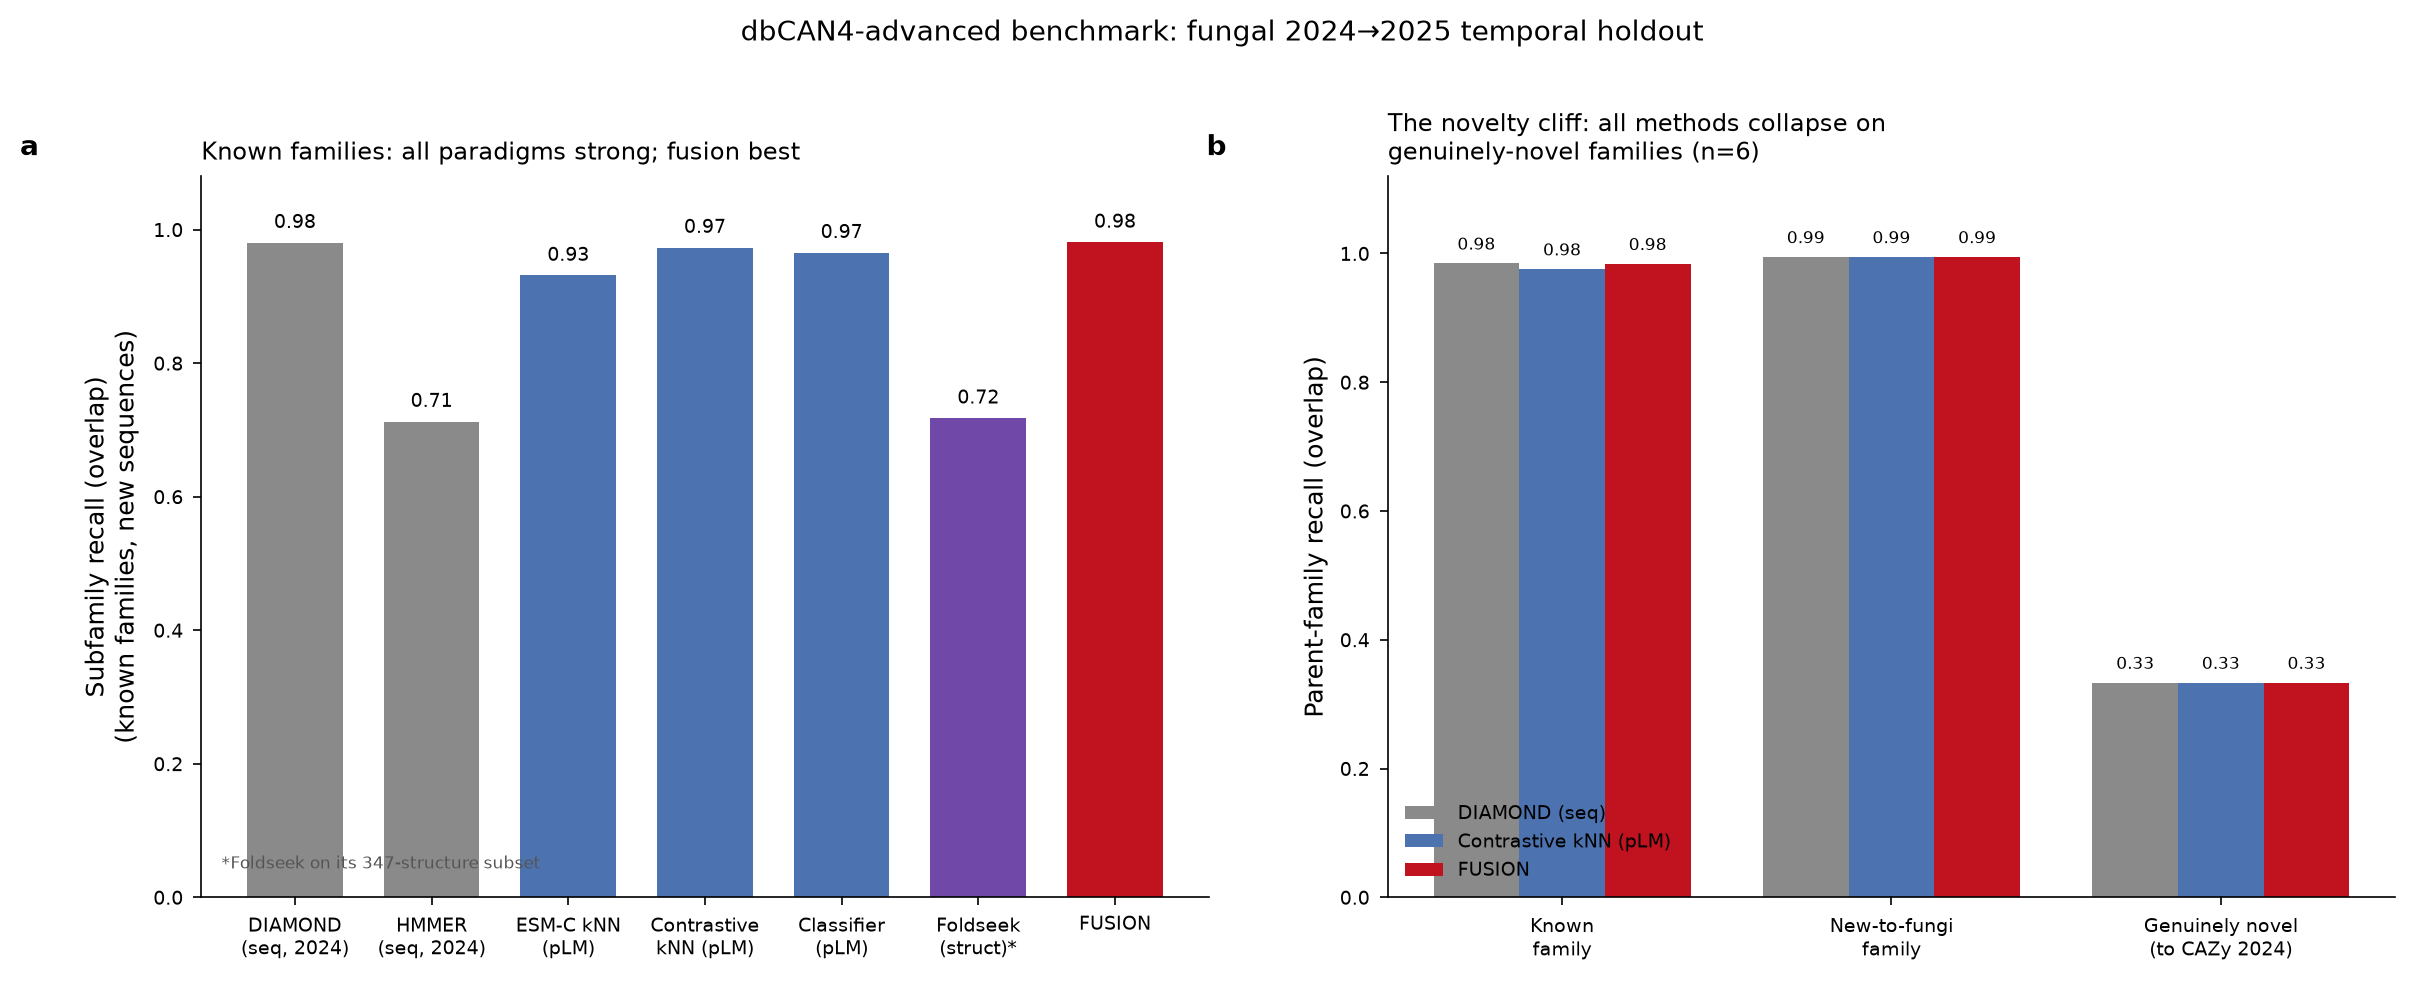
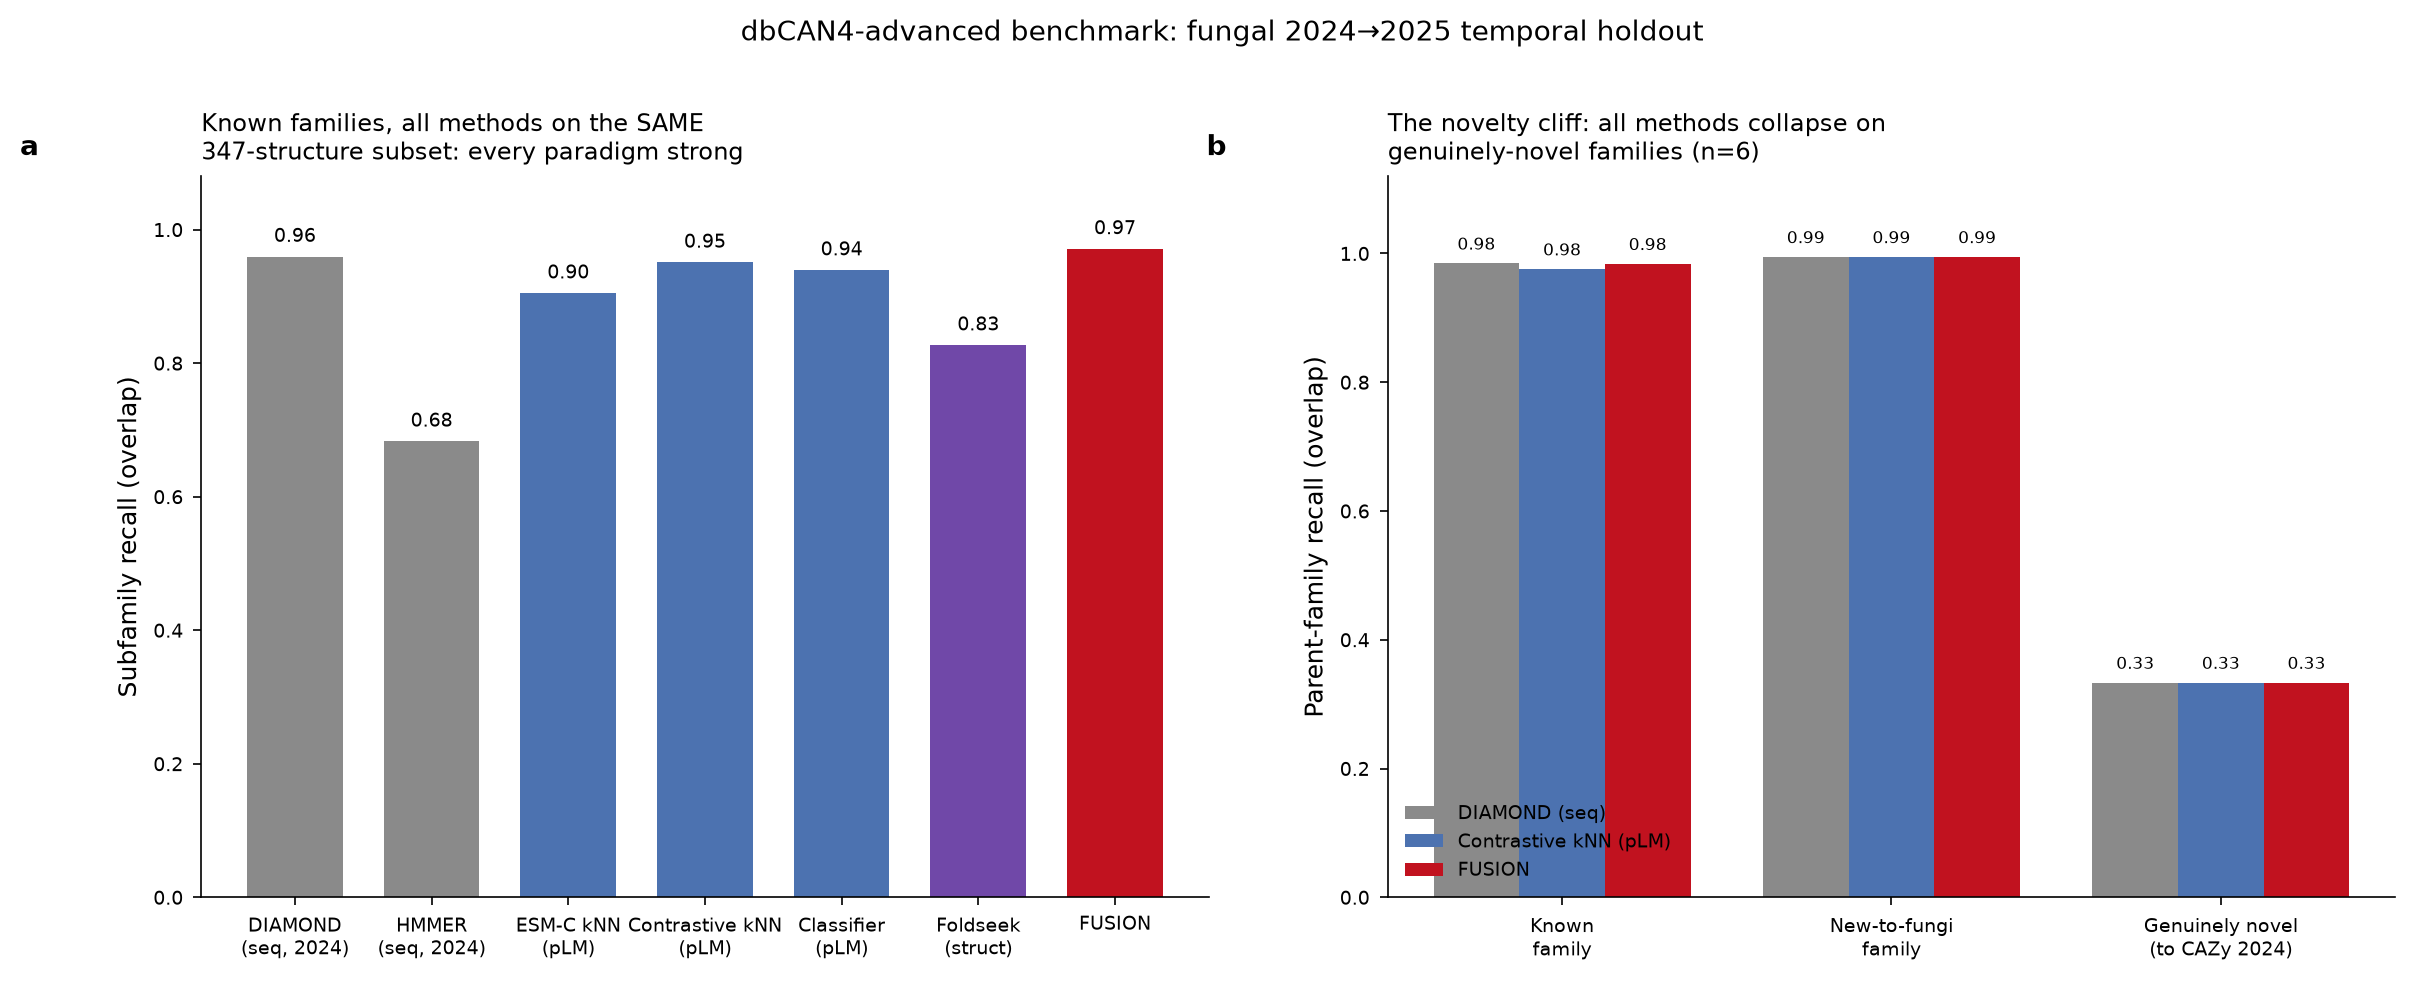
Fix: panel A compares all methods on identical 347-structure subset
- Foldseek bar was exact-match on its subset while other bars were overlap-over-all;
  now all 7 methods use overlap recall on the SAME 347 structure-bearing known-family proteins
- Foldseek 0.83, DIAMOND 0.96, fusion 0.97 - apples-to-apples, axis label matches metric
- report: figure caption explains panel-A subset vs full-set table denominators
- adds benchmarks/panelA_structure_subset.json

diff --git a/docs/benchmark_report.md b/docs/benchmark_report.md
@@ -92,6 +92,12 @@ reliability weights; below a confidence threshold τ=0.35 the prediction
 
 ![Master benchmark](figures/master_benchmark_figure.png)
 
+*Figure. Panel A restricts all seven methods to the identical 347-protein
+structure-bearing known-family subset (the only proteins Foldseek can score), so
+every bar is the same overlap metric on the same proteins. The table below reports
+each method on its full applicable set (n=4,000 known-family), which is why the
+sequence/pLM numbers there run slightly higher than in panel A.*
+
 **Family recall on the temporal holdout** (overlap: a prediction counts if it
 shares ≥1 family with the truth label; subfamily and parent granularity):
 